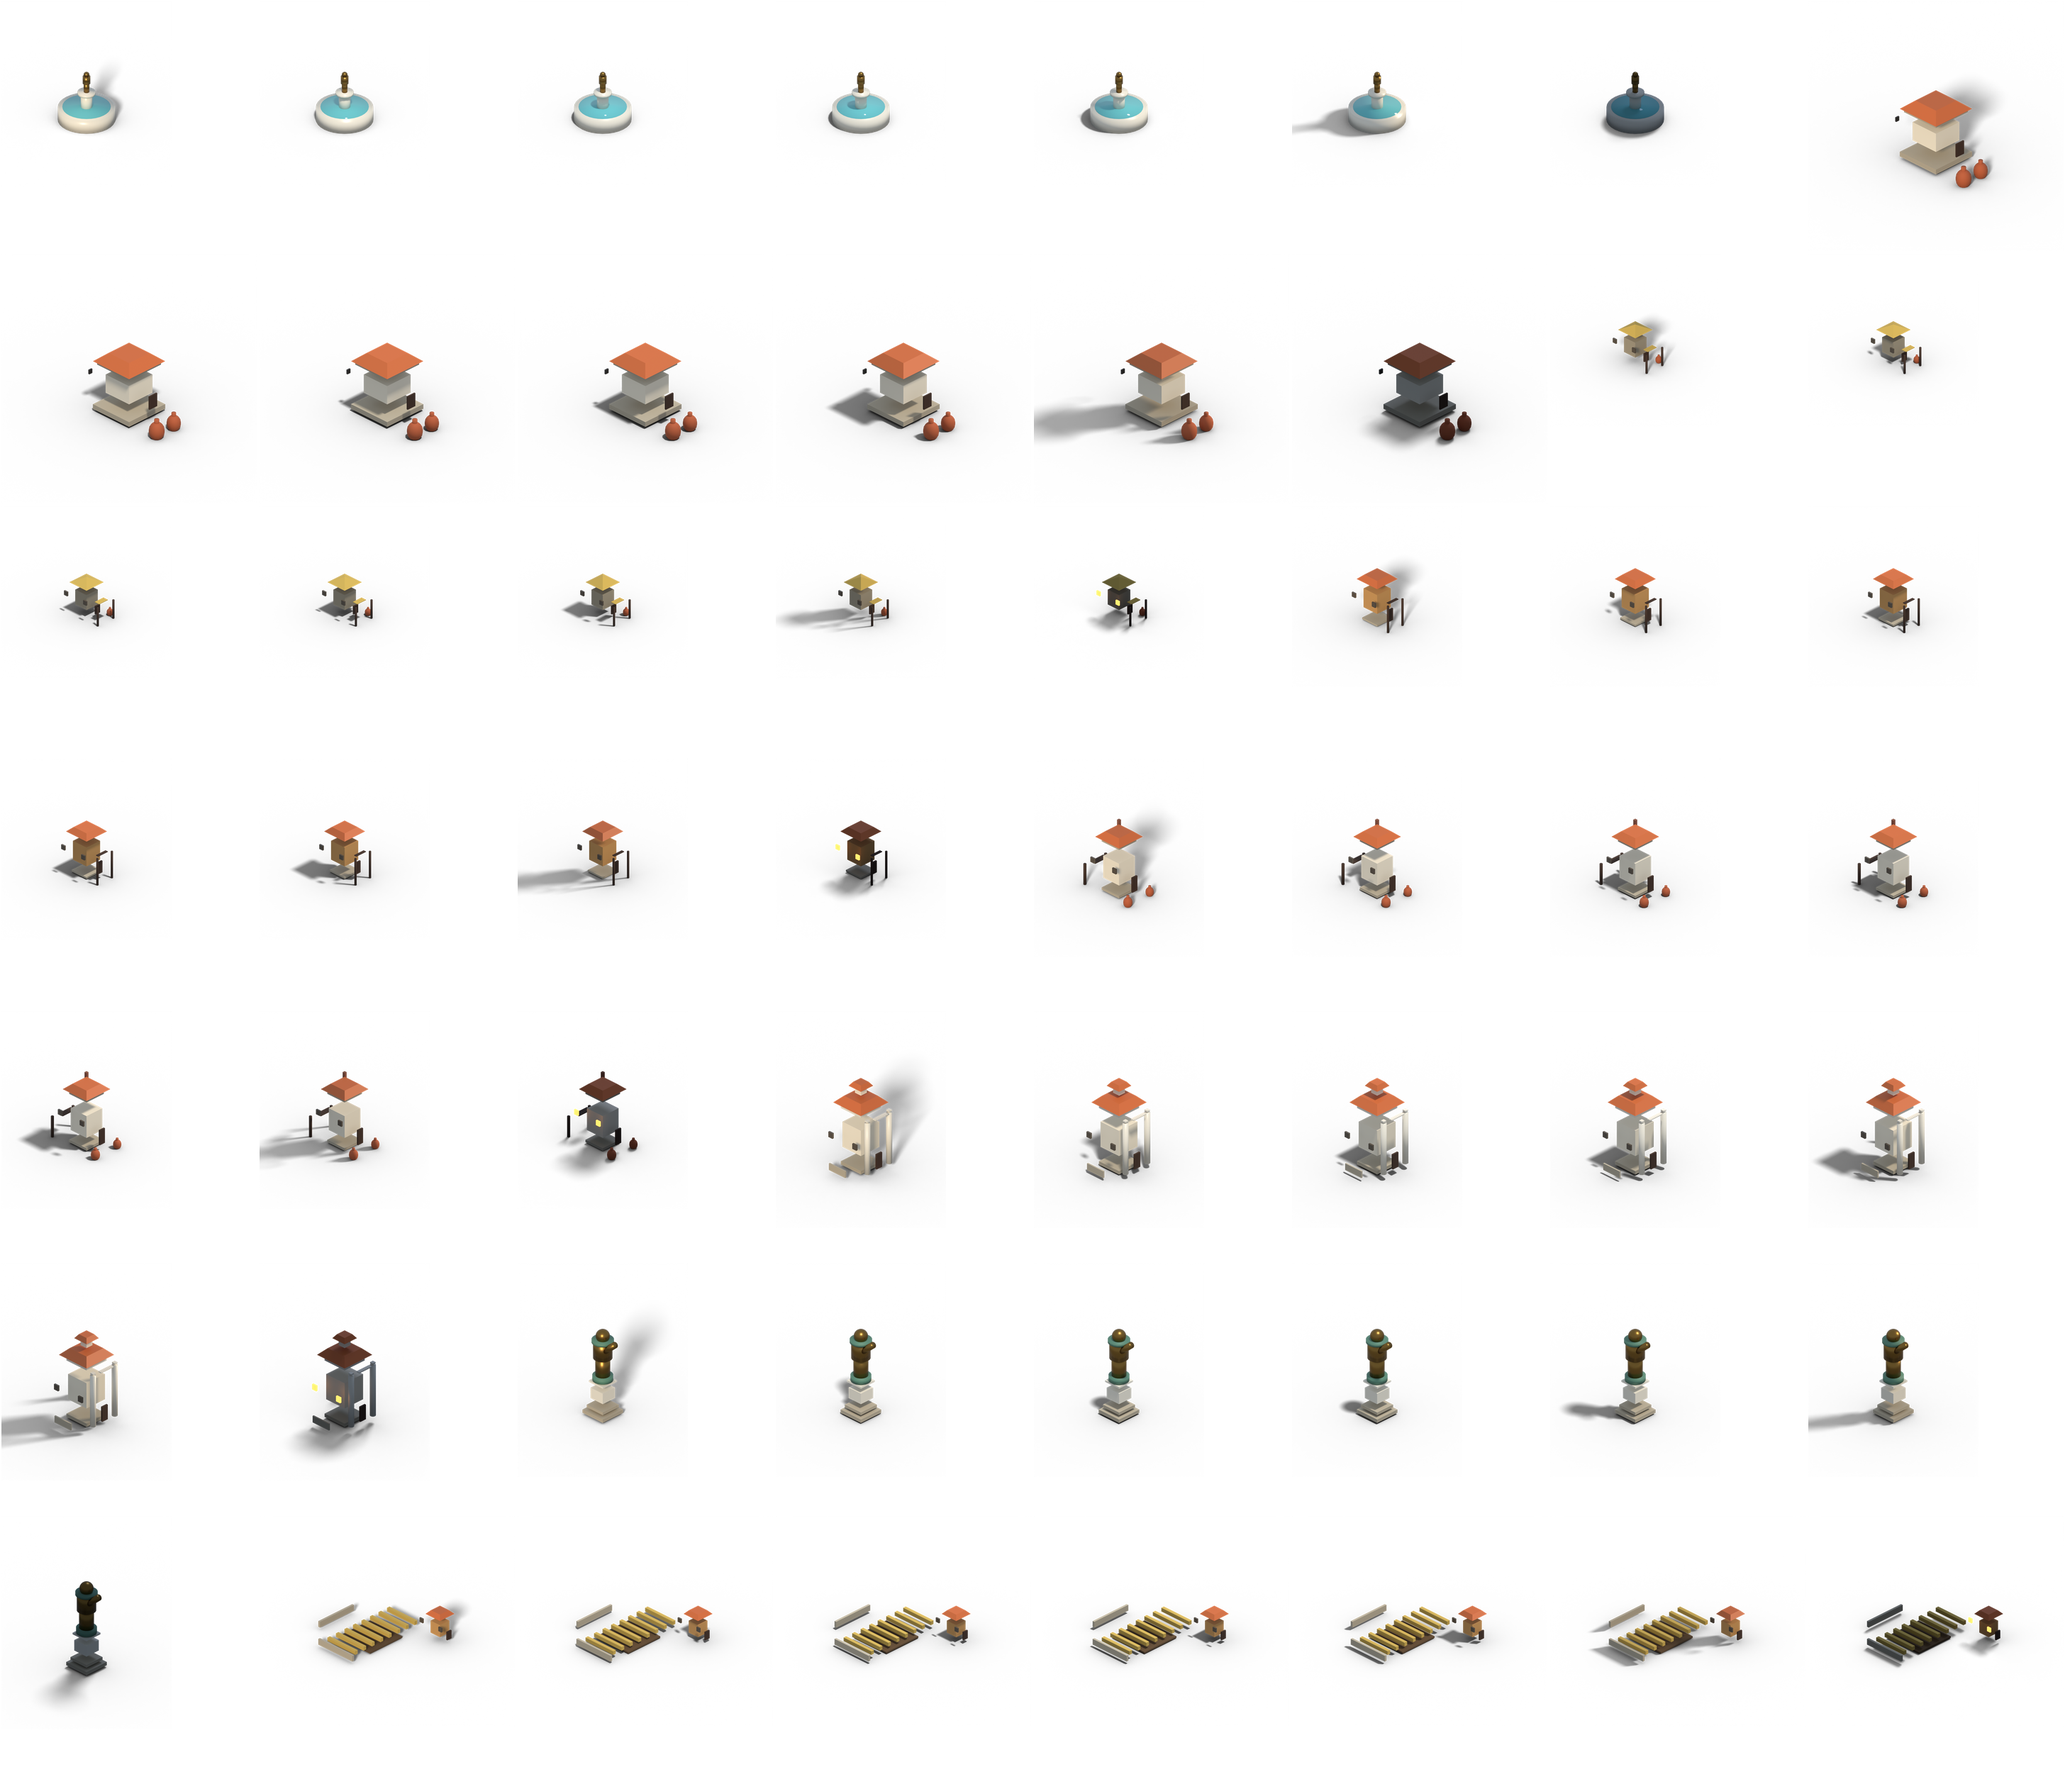
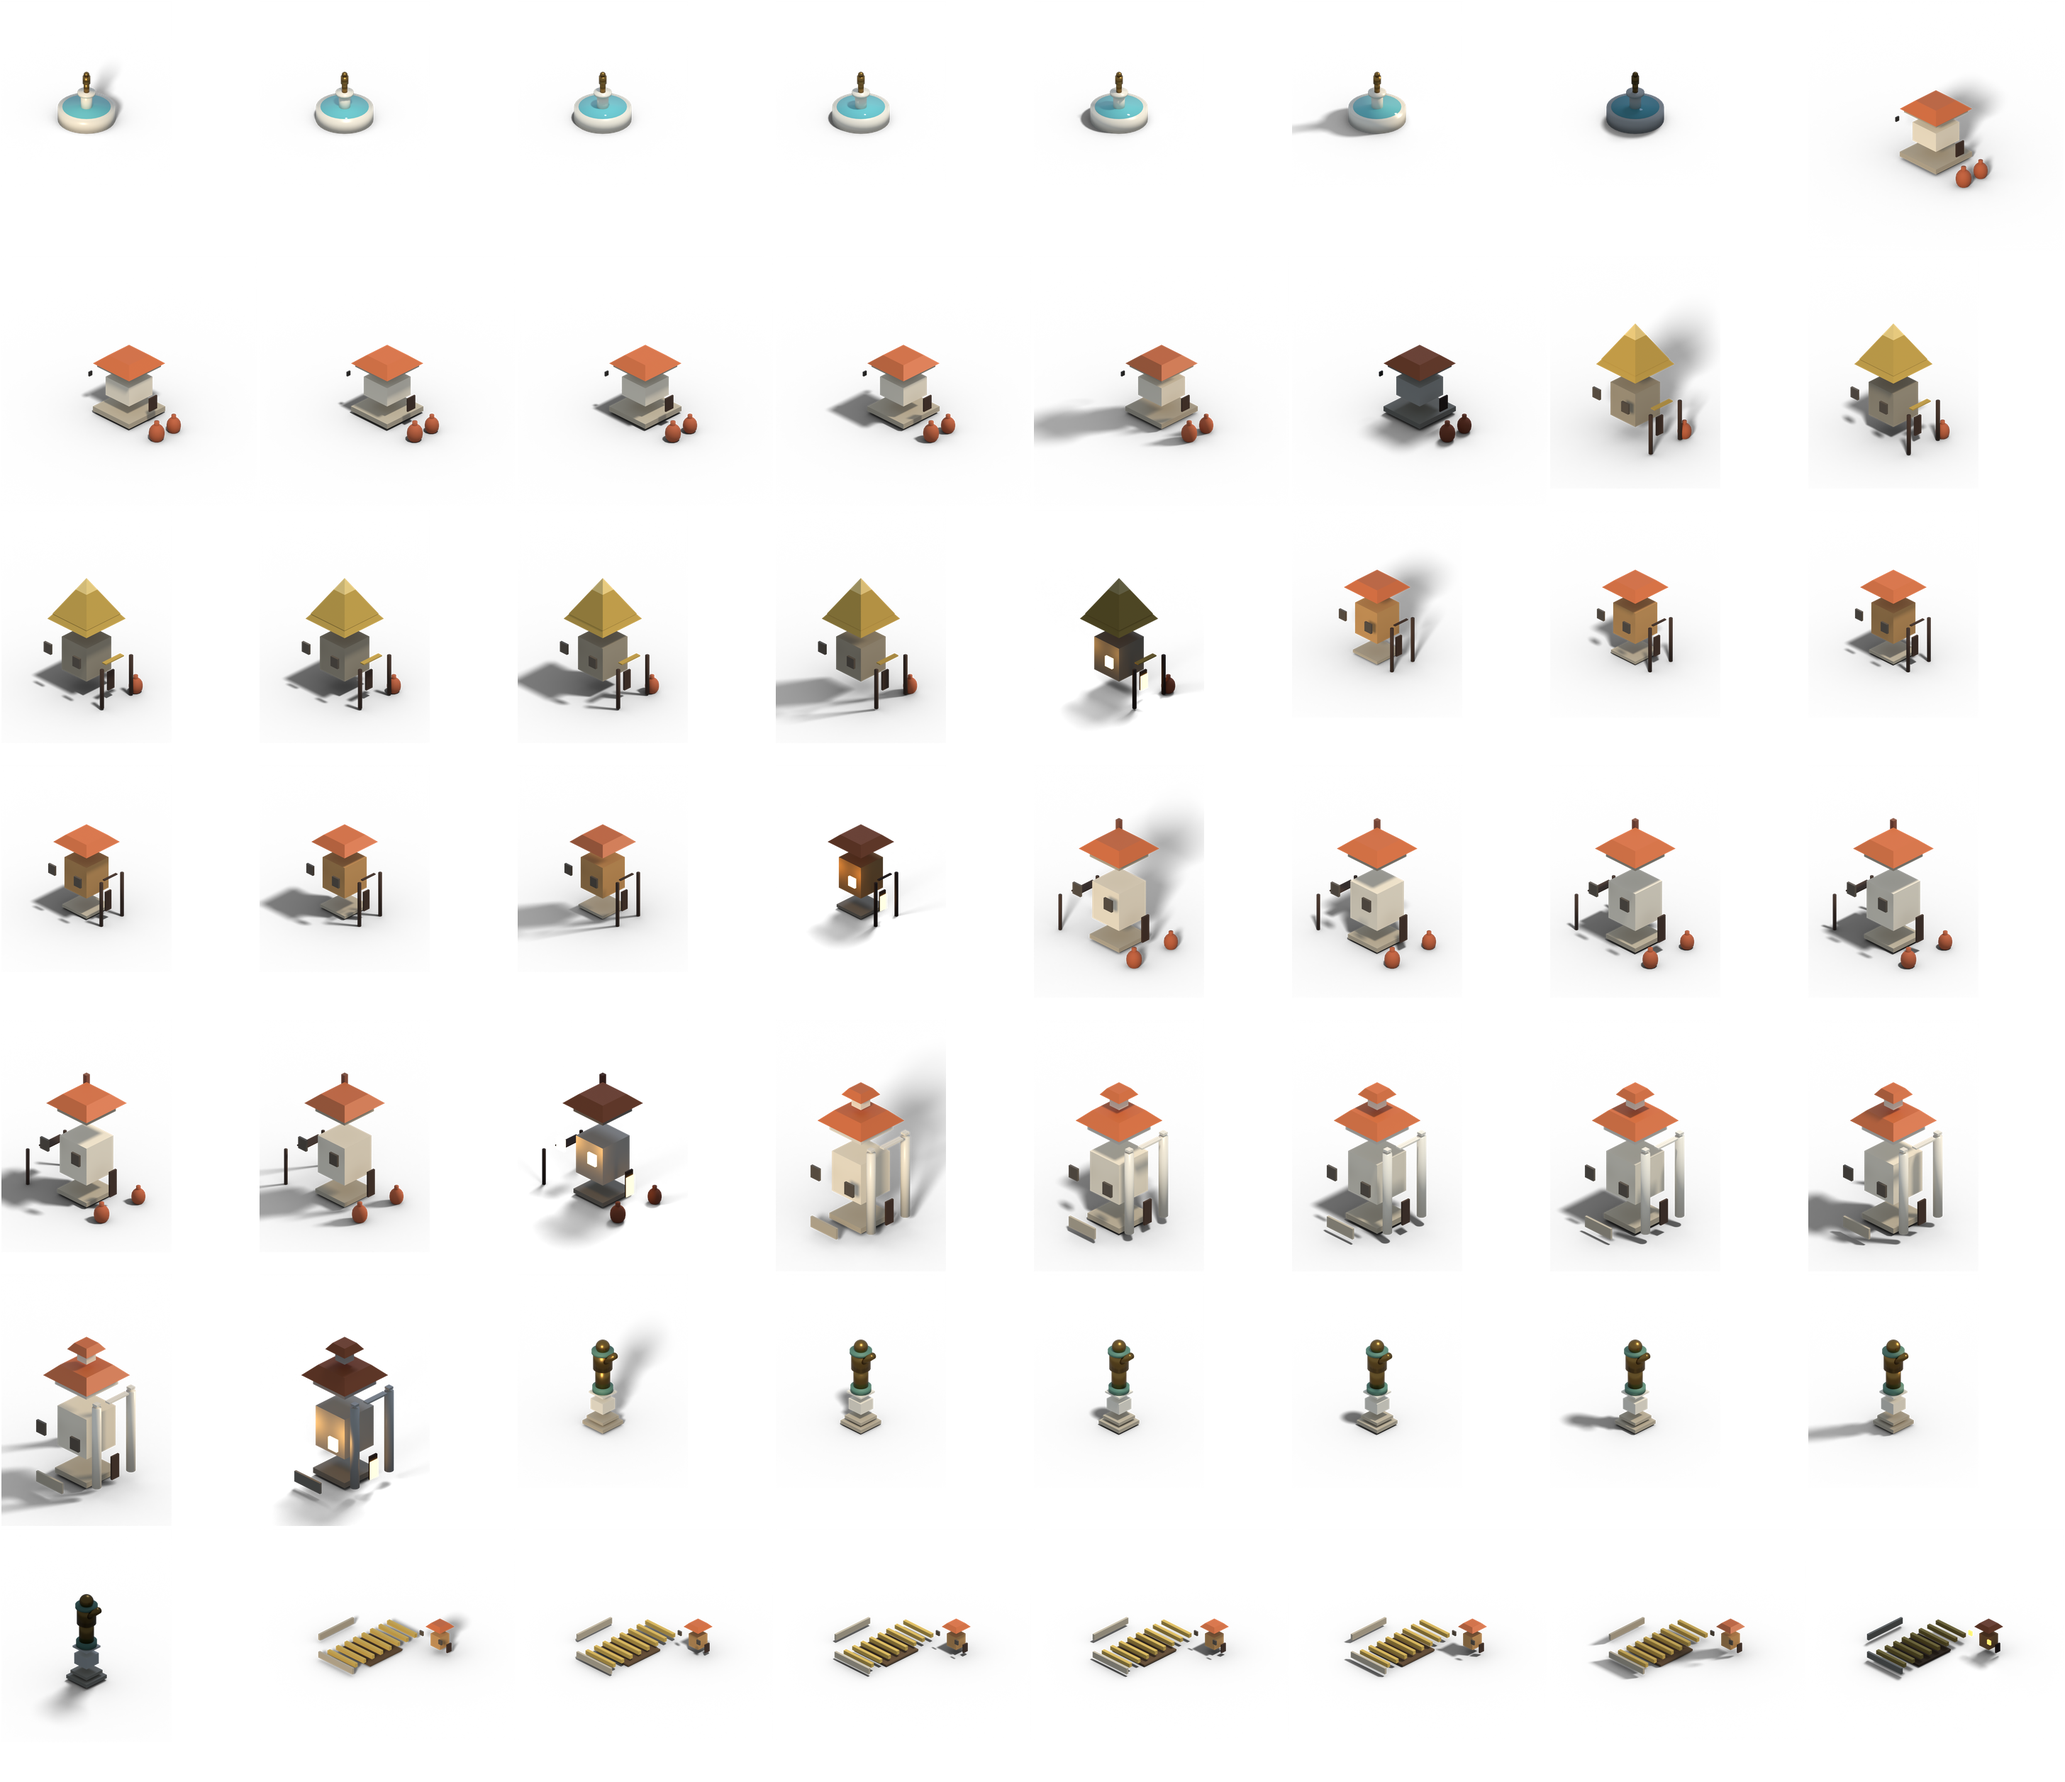
Bigger housing footprint, thicker thatch, brighter night windows

diff --git a/pipeline/iso_render.py b/pipeline/iso_render.py
@@ -36,6 +36,9 @@ TERRACOTTA_LIGHT = hex_rgb("d97a3c")
 MARBLE = hex_rgb("e9e4d6")
 BRONZE = hex_rgb("8a6a34")
 STRAW = hex_rgb("c9a94f")
+STRAW_DULL = hex_rgb("b8963f")
+STRAW_RIDGE = hex_rgb("e0c478")
+WINDOW_GLOW = (1.0, 0.55, 0.15)
 STONE = (0.70, 0.66, 0.58)
 FIELDSTONE = (0.62, 0.58, 0.50)
 OCHRE = (0.78, 0.58, 0.34)
@@ -181,12 +184,22 @@ def window_material(night):
     mat.use_nodes = True
     bsdf = mat.node_tree.nodes["Principled BSDF"]
     if night:
-        bsdf.inputs["Base Color"].default_value = (1.0, 0.42, 0.08, 1)
-        bsdf.inputs["Emission Color"].default_value = (1.0, 0.42, 0.08, 1)
-        bsdf.inputs["Emission Strength"].default_value = 2.0
+        bsdf.inputs["Base Color"].default_value = (*WINDOW_GLOW, 1)
+        bsdf.inputs["Emission Color"].default_value = (*WINDOW_GLOW, 1)
+        bsdf.inputs["Emission Strength"].default_value = 8.0
     else:
         bsdf.inputs["Base Color"].default_value = (0.09, 0.07, 0.05, 1)
         bsdf.inputs["Roughness"].default_value = 0.4
+    return mat
+
+
+def door_glow_material():
+    mat = bpy.data.materials.new("doorway_glow")
+    mat.use_nodes = True
+    bsdf = mat.node_tree.nodes["Principled BSDF"]
+    bsdf.inputs["Base Color"].default_value = (*WINDOW_GLOW, 1)
+    bsdf.inputs["Emission Color"].default_value = (*WINDOW_GLOW, 1)
+    bsdf.inputs["Emission Strength"].default_value = 5.0
     return mat
 
 
@@ -194,35 +207,57 @@ def add_openings(half, sill, tall, night, door_mat, centre=(0.0, 0.0)):
     """Door on the +X face and windows on the -Y face — the two the camera sees."""
     cx, cy = centre
     glass = window_material(night)
-    add_box("door", (cx + half - 0.01, cy, sill * 0.55), (0.05, 0.2, sill * 1.1), door_mat)
-    for offset in (-0.22, 0.22):
-        if abs(offset) > half:
+    door_w = max(0.2, half * 0.5)
+    add_box("door", (cx + half - 0.01, cy, sill * 0.55), (0.05, door_w, sill * 1.1), door_mat)
+    if night:
+        add_box("doorway_glow", (cx + half + 0.008, cy, sill * 0.5), (0.015, door_w * 1.15, sill * 0.85), door_glow_material())
+
+    window_w = max(0.16, tall * 0.26)
+    window_h = max(0.18, tall * 0.3)
+    offset_mag = half * 0.58
+    for offset in (-offset_mag, offset_mag):
+        if abs(offset) + window_w / 2 > half:
             continue
-        add_box("window", (cx + offset, cy - half + 0.01, sill + tall * 0.15), (0.15, 0.05, 0.16), glass)
+        add_box("window", (cx + offset, cy - half + 0.01, sill + tall * 0.15), (window_w, 0.06, window_h), glass)
 
 
 def build_house_0(phase):
     """Shack: rough fieldstone walls, straw roof, lean-to, pot by the door."""
     night = phase >= SUN_PHASES
     fieldstone = material("fieldstone", FIELDSTONE, roughness=0.92)
-    straw = material("straw", STRAW, roughness=0.95)
+    straw_dull = material("straw_dull", STRAW_DULL, roughness=0.95)
+    straw_ridge = material("straw_ridge", STRAW_RIDGE, roughness=0.85)
     wood = material("wood", WOOD, roughness=0.85)
     clay = material("clay", CLAY, roughness=0.8)
 
-    half = 0.26
-    wall_h = 0.56
+    half = 0.425
+    wall_h = 0.92
     add_box("walls", (0, 0, wall_h / 2), (half * 2, half * 2, wall_h), fieldstone)
-    add_pyramid("roof", (0, 0, wall_h + 0.05), 0.28, 0.1, straw)
     add_openings(half, wall_h * 0.5, wall_h, night, wood)
 
-    lean_x = half + 0.1
-    add_box("leanto_roof", (lean_x, -0.02, 0.36), (0.2, 0.4, 0.02), straw)
-    add_cylinder("leanto_post1", (lean_x + 0.1, -0.2, 0.18), 0.018, 0.34, wood, vertices=8)
-    add_cylinder("leanto_post2", (lean_x + 0.1, 0.16, 0.18), 0.018, 0.34, wood, vertices=8)
+    eave_radius = half + 0.05
+    eave_ridge = eave_radius * 0.85
+    eave_depth = 0.07
+    eave_z = wall_h + eave_depth / 2 + 0.02
+    add_hip_roof("roof_eave", (0, 0, eave_z), eave_radius, eave_depth, straw_dull, ridge_radius=eave_ridge)
 
-    add_amphora("pot", (half + 0.08, 0.2, 0.0), 0.16, clay)
+    cap_radius = eave_ridge + 0.01
+    cap_depth = 0.5
+    cap_top_radius = cap_radius * 0.32
+    cap_base_z = eave_z + eave_depth / 2
+    cap_dull_depth = cap_depth * 0.68
+    cap_tip_depth = cap_depth * 0.32
+    add_hip_roof("roof_cap", (0, 0, cap_base_z + cap_dull_depth / 2), cap_radius, cap_dull_depth, straw_dull, ridge_radius=cap_top_radius)
+    add_pyramid("roof_ridge", (0, 0, cap_base_z + cap_dull_depth + cap_tip_depth / 2), cap_top_radius, cap_tip_depth, straw_ridge)
 
-    return {"kind": "house", "variant": 0, "footprint": 1, "height": 0.72}
+    lean_x = half + 0.06
+    add_box("leanto_roof", (lean_x, -0.03, 0.58), (0.13, 0.62, 0.03), straw_dull)
+    add_cylinder("leanto_post1", (lean_x + 0.06, -0.28, 0.29), 0.026, 0.54, wood, vertices=8)
+    add_cylinder("leanto_post2", (lean_x + 0.06, 0.22, 0.29), 0.026, 0.54, wood, vertices=8)
+
+    add_amphora("pot", (half + 0.1, 0.32, 0.0), 0.26, clay)
+
+    return {"kind": "house", "variant": 0, "footprint": 1, "height": 1.65}
 
 
 def build_house_1(phase):
@@ -233,17 +268,17 @@ def build_house_1(phase):
     stone = material("stone", STONE, roughness=0.8)
     wood = material("wood", WOOD, roughness=0.85)
 
-    half = 0.3
-    add_box("plinth", (0, 0, 0.03), (half * 2 + 0.06, half * 2 + 0.06, 0.06), stone)
-    add_box("walls", (0, 0, 0.4), (half * 2, half * 2, 0.68), ochre)
-    add_hip_roof("roof", (0, 0, 0.78), 0.32, 0.08, terracotta, ridge_radius=0.2)
-    add_openings(half, 0.38, 0.68, night, wood)
+    half = 0.425
+    add_box("plinth", (0, 0, 0.043), (half * 2 + 0.085, half * 2 + 0.085, 0.085), stone)
+    add_box("walls", (0, 0, 0.567), (half * 2, half * 2, 0.963), ochre)
+    add_hip_roof("roof", (0, 0, 1.105), 0.453, 0.113, terracotta, ridge_radius=0.283)
+    add_openings(half, 0.538, 0.963, night, wood)
 
-    add_box("awning", (half + 0.04, 0, 0.48), (0.1, 0.42, 0.02), wood)
-    add_cylinder("awning_post1", (half + 0.1, -0.16, 0.24), 0.018, 0.48, wood, vertices=8)
-    add_cylinder("awning_post2", (half + 0.1, 0.16, 0.24), 0.018, 0.48, wood, vertices=8)
+    add_box("awning", (half + 0.03, 0, 0.68), (0.07, 0.5, 0.028), wood)
+    add_cylinder("awning_post1", (half + 0.06, -0.2, 0.34), 0.026, 0.68, wood, vertices=8)
+    add_cylinder("awning_post2", (half + 0.06, 0.2, 0.34), 0.026, 0.68, wood, vertices=8)
 
-    return {"kind": "house", "variant": 1, "footprint": 1, "height": 0.84}
+    return {"kind": "house", "variant": 1, "footprint": 1, "height": 1.25}
 
 
 def build_house_2(phase):
@@ -256,19 +291,19 @@ def build_house_2(phase):
     clay = material("clay", CLAY, roughness=0.8)
     brick = material("brick", (0.5, 0.3, 0.22), roughness=0.85)
 
-    half = 0.32
-    add_box("plinth", (0, 0, 0.04), (half * 2 + 0.06, half * 2 + 0.06, 0.08), stone)
-    add_box("walls", (0, 0, 0.4), (half * 2, half * 2, 0.72), whitewash)
-    add_box("cornice", (0, 0, 0.83), (half * 2 + 0.06, half * 2 + 0.06, 0.05), stone)
-    add_hip_roof("roof", (0, 0, 0.94), 0.34, 0.09, terracotta, ridge_radius=0.2)
-    add_box("chimney", (-0.18, 0.18, 0.98), (0.08, 0.08, 0.2), brick)
-    add_openings(half, 0.44, 0.72, night, wood)
+    half = 0.46
+    add_box("plinth", (0, 0, 0.058), (half * 2 + 0.086, half * 2 + 0.086, 0.115), stone)
+    add_box("walls", (0, 0, 0.575), (half * 2, half * 2, 1.035), whitewash)
+    add_box("cornice", (0, 0, 1.193), (half * 2 + 0.086, half * 2 + 0.086, 0.072), stone)
+    add_hip_roof("roof", (0, 0, 1.351), 0.489, 0.129, terracotta, ridge_radius=0.288)
+    add_box("chimney", (-0.259, 0.259, 1.409), (0.115, 0.115, 0.288), brick)
+    add_openings(half, 0.633, 1.035, night, wood)
 
-    add_pergola("pergola", -half, 0.0, 0.0, 0.16, 0.5, 0.34, wood)
-    add_amphora("jar1", (half + 0.08, -0.22, 0.0), 0.2, clay)
-    add_amphora("jar2", (half + 0.08, 0.22, 0.0), 0.18, clay)
+    add_pergola("pergola", -half, 0.0, 0.0, 0.23, 0.719, 0.489, wood)
+    add_amphora("jar1", (half + 0.115, -0.316, 0.0), 0.288, clay)
+    add_amphora("jar2", (half + 0.115, 0.316, 0.0), 0.259, clay)
 
-    return {"kind": "house", "variant": 2, "footprint": 1, "height": 1.1}
+    return {"kind": "house", "variant": 2, "footprint": 1, "height": 1.65}
 
 
 def build_house_3(phase):
@@ -282,27 +317,27 @@ def build_house_3(phase):
     clay = material("clay", CLAY, roughness=0.8)
     cypress = material("cypress", CYPRESS, roughness=0.9)
 
-    half = 0.34
-    add_box("plinth", (0, 0, 0.05), (half * 2 + 0.06, half * 2 + 0.06, 0.1), stone)
-    add_box("walls", (0, 0, 0.48), (half * 2, half * 2, 0.76), whitewash)
-    add_box("cornice", (0, 0, 0.89), (half * 2 + 0.06, half * 2 + 0.06, 0.06), marble)
-    add_hip_roof("roof", (0, 0, 1.01), 0.36, 0.1, terracotta, ridge_radius=0.22)
-    add_box("clerestory", (0, 0, 1.14), (0.22, 0.22, 0.14), whitewash)
-    add_hip_roof("clerestory_roof", (0, 0, 1.24), 0.16, 0.06, terracotta, ridge_radius=0.1)
+    half = 0.46
+    add_box("plinth", (0, 0, 0.068), (half * 2 + 0.081, half * 2 + 0.081, 0.135), stone)
+    add_box("walls", (0, 0, 0.649), (half * 2, half * 2, 1.028), whitewash)
+    add_box("cornice", (0, 0, 1.204), (half * 2 + 0.081, half * 2 + 0.081, 0.081), marble)
+    add_hip_roof("roof", (0, 0, 1.367), 0.487, 0.135, terracotta, ridge_radius=0.298)
+    add_box("clerestory", (0, 0, 1.542), (0.298, 0.298, 0.189), whitewash)
+    add_hip_roof("clerestory_roof", (0, 0, 1.678), 0.217, 0.081, terracotta, ridge_radius=0.135)
 
-    porch_x = half - 0.02
-    for y in (-0.2, 0.2):
-        add_cylinder("column", (porch_x, y, 0.48), 0.04, 0.76, marble, vertices=14)
-        add_box("capital", (porch_x, y, 0.89), (0.1, 0.1, 0.04), marble)
-    add_box("porch_roof", (half + 0.02, 0, 0.89), (0.1, 0.46, 0.03), marble)
+    porch_x = half - 0.027
+    for y in (-0.271, 0.271):
+        add_cylinder("column", (porch_x, y, 0.649), 0.054, 1.028, marble, vertices=14)
+        add_box("capital", (porch_x, y, 1.204), (0.135, 0.135, 0.054), marble)
+    add_box("porch_roof", (half + 0.027, 0, 1.204), (0.135, 0.622, 0.041), marble)
 
-    add_openings(half, 0.4, 0.76, night, wood)
+    add_openings(half, 0.541, 1.028, night, wood)
 
-    add_wall("courtyard_wall", (0, -half - 0.09, 0.11), 0.6, 0.2, 0.04, stone, along_x=True)
+    add_wall("courtyard_wall", (0, -half - 0.122, 0.149), 0.812, 0.271, 0.054, stone, along_x=True)
 
-    add_cypress_pot("cypress", (-half - 0.1, half + 0.05, 0.0), 0.38, clay, cypress)
+    add_cypress_pot("cypress", (-half - 0.135, half + 0.068, 0.0), 0.514, clay, cypress)
 
-    return {"kind": "house", "variant": 3, "footprint": 1, "height": 1.4}
+    return {"kind": "house", "variant": 3, "footprint": 1, "height": 1.95}
 
 
 def build_wheat_farm(phase):
